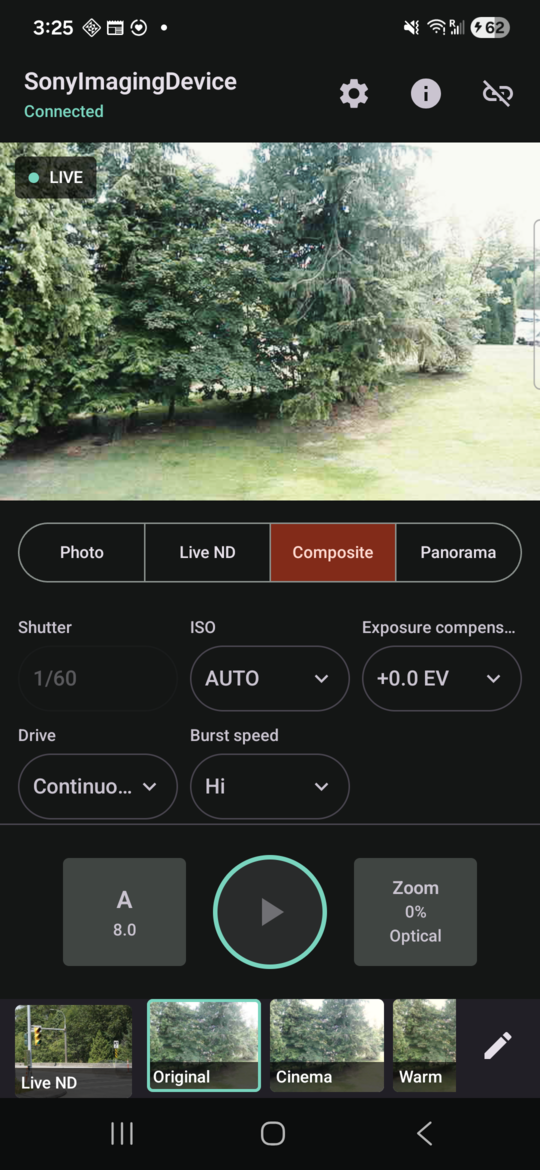
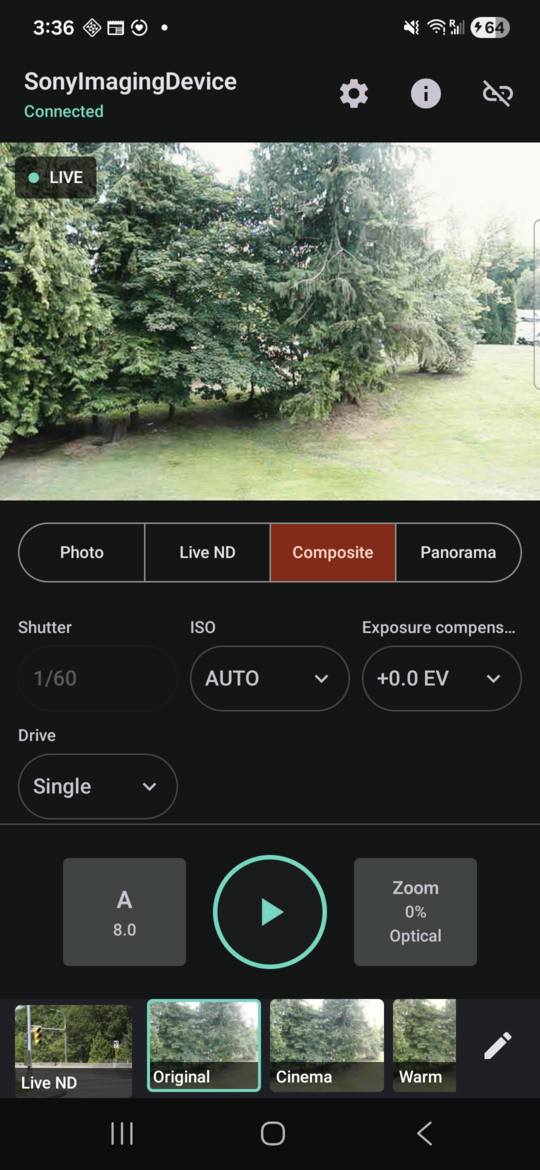
fix: use single drive for stack modes

diff --git a/app/src/main/java/com/ryu/sonyremote/ui/CameraViewModel.kt b/app/src/main/java/com/ryu/sonyremote/ui/CameraViewModel.kt
@@ -570,6 +570,11 @@ class CameraViewModel(application: Application) : AndroidViewModel(application) 
                     highestBurstSpeed(ready.capabilities.settings[CameraSettingId.ContShootingSpeed])
                         ?.let { desired[CameraSettingId.ContShootingSpeed] = it }
                     modeCameraSettings[mode] = desired
+                } else if (mode == CaptureMode.LiveComposite || mode == CaptureMode.Panorama) {
+                    ready.capabilities.settings[CameraSettingId.ContShootingMode]
+                        ?.options?.firstOrNull { it.wireValue.equals("Single", true) }
+                        ?.let { desired[CameraSettingId.ContShootingMode] = it.wireValue }
+                    modeCameraSettings[mode] = desired
                 }
                 desired.forEach { (id, value) ->
                     val current = (connection.value as? ConnectionState.Ready)